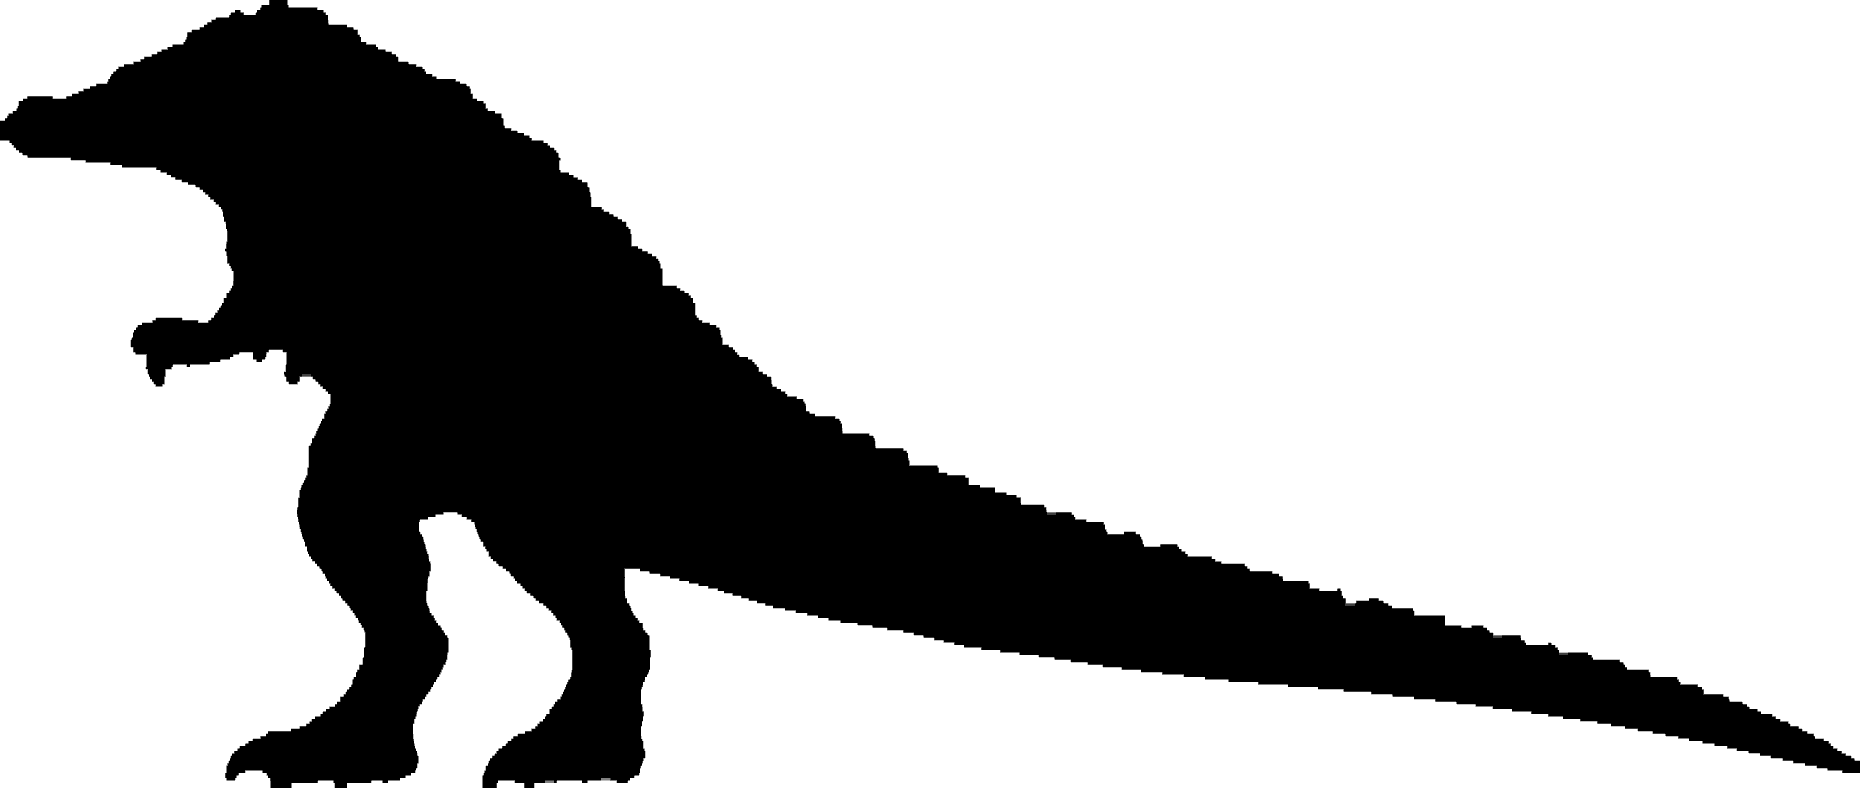
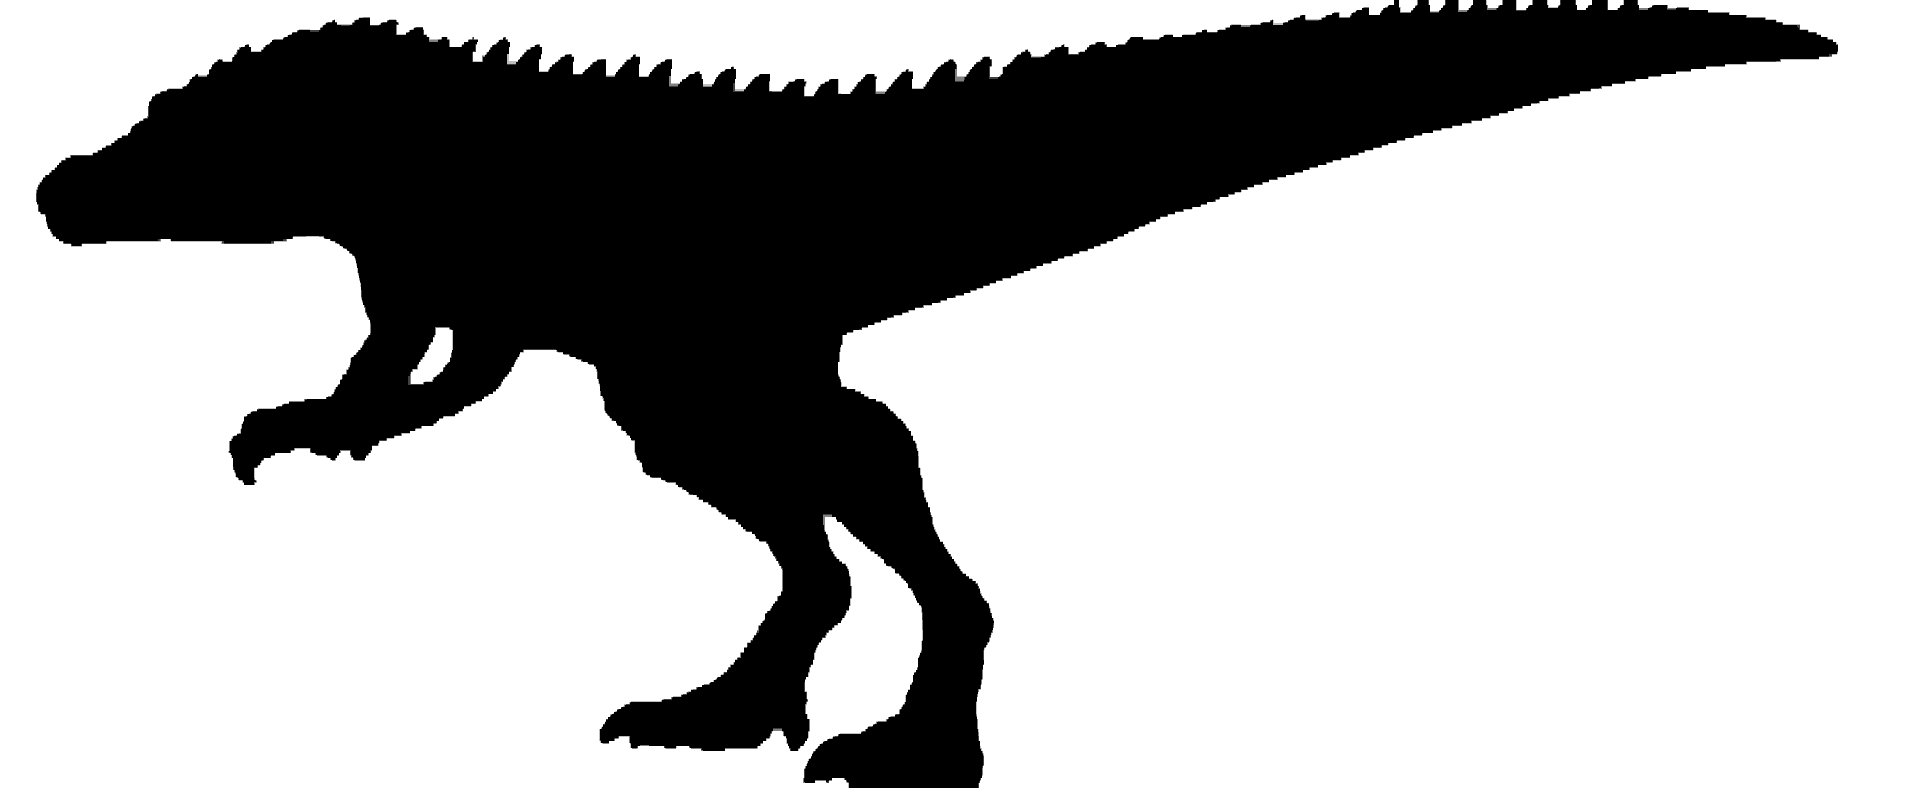
Title: today's croc side-on, fires on visible towers (D-441)
Re-bake the title silhouette from today's adult croc (side-on, director's
pick C) and move the eye and crown highlight onto it. The title's far shore
leaves the engine's depth fog (title.far_fog, "Thin the haze") so the
burning towers' windows show under their roof fires; the play area's far
city is unchanged. UI suite ui_title_haze.gd: play area fogged, title not.

diff --git a/docs/DECISIONS.md b/docs/DECISIONS.md
@@ -4,6 +4,14 @@ Cap: 400 lines; oldest roll to `docs/archive/`. One decision per entry, newest f
 that is not here does not exist. Format: date · id · who decided · the decision · why · what it
 changes. The lead owns the wording; a decision goes in the PR that acts on it (any PR may carry it).
 
+## 2026-11-02 · D-441 · Director · Title: today's croc side-on behind the city, its fires on visible towers
+His words, on the title still: "this fire is wrong btw / and we should update the kaiju silhouette to match our
+current adult croc design / improve it too". Q: which view of the croc? A: "C: side-on". Q: the left district's roof
+fires float in the haze; which fix? A: "Thin the haze". Changes: Fire no longer scales its flame quad by the zoom the
+particles already carry (title flames were zoom² tall; fx_pool `_zoomed_flames`); assets/title/colossus_0.png
+re-baked from today's croc (bake_colossus `--yaws=45,60,90,135 --pick=1`), `title.colossus` eye and crown moved to
+it; the title's far shore leaves the engine's depth fog (`title.far_fog`, ui `ui_title_haze.gd`), play area unchanged.
+
 ## 2026-11-02 · D-440 · Director · The title's foreground is a night beach, not a paved quay
 His words, on the title still: "this is wrong btw... meant to be a beach". Q: how? A: "Sand in front, same view". Why:
 the game is set on a beach and bay; the paved ledge read as a harbour wall. Changes: title_shore.gd draws the old ledge
@@ -386,12 +394,3 @@ Q: the bay start leaves the west landmark spot ~0.5 m past the baby's band (it c
 row). A (lead call A, director "idc"): stage 1 shows the east spot's landmark only; both spots from the
 Behemoth. Bars name spots, never landmarks (spots fixed, the landmark in each rotates, director 2026-10-29).
 Stadium-driven tests (flow, crowd) play the stage-2 city.
-
-## 2026-10-29 · D-379 · Director · Rulebook, shared memory and personal skills removed; two rules kept
-His words: "i want to straight up delete the rulebook"; "no spend without your yes / only you judge art / these are
-the only things i want". On shared memory: "Archive it + stop refills (Recommended)" ("a good idea in theory but not
-practice"). On skills: "can we delete all our skills, i dont think we need them"; Q: what should happen to the
-skills? A: "Delete all outright". So: RULEBOOK.md no longer loads; `~/.claude/memory-shared` moved to
-`~/.claude-archive/memory-shared-2026-10-29` and the stop hook no longer asks for lessons; the 14 personal skills in
-`~/.claude/skills` are deleted (app-synced Anthropic skills untouched). `~/.claude/CLAUDE.md` keeps "straight to me",
-no spend, end-with-state and write-concisely. Replaces D-378's rulebook and skill mentions.

diff --git a/docs/archive/decisions_2026-10.md b/docs/archive/decisions_2026-10.md
@@ -2,6 +2,15 @@
 
 Rolled from docs/DECISIONS.md (cap 400), newest first, unchanged.
 
+## 2026-10-29 · D-379 · Director · Rulebook, shared memory and personal skills removed; two rules kept
+His words: "i want to straight up delete the rulebook"; "no spend without your yes / only you judge art / these are
+the only things i want". On shared memory: "Archive it + stop refills (Recommended)" ("a good idea in theory but not
+practice"). On skills: "can we delete all our skills, i dont think we need them"; Q: what should happen to the
+skills? A: "Delete all outright". So: RULEBOOK.md no longer loads; `~/.claude/memory-shared` moved to
+`~/.claude-archive/memory-shared-2026-10-29` and the stop hook no longer asks for lessons; the 14 personal skills in
+`~/.claude/skills` are deleted (app-synced Anthropic skills untouched). `~/.claude/CLAUDE.md` keeps "straight to me",
+no spend, end-with-state and write-concisely. Replaces D-378's rulebook and skill mentions.
+
 ## 2026-10-29 · D-378 · Director · Sessions boot on a small core; history is searched, not read at start
 His words (~03:0x): "90% of them are pointless. really we could cull almost everything. no wonder our context is always
 so high". Q: how hard to cut startup reading? A: "Core only (Recommended)". A session boots on its handoff, the CLAUDE.md
